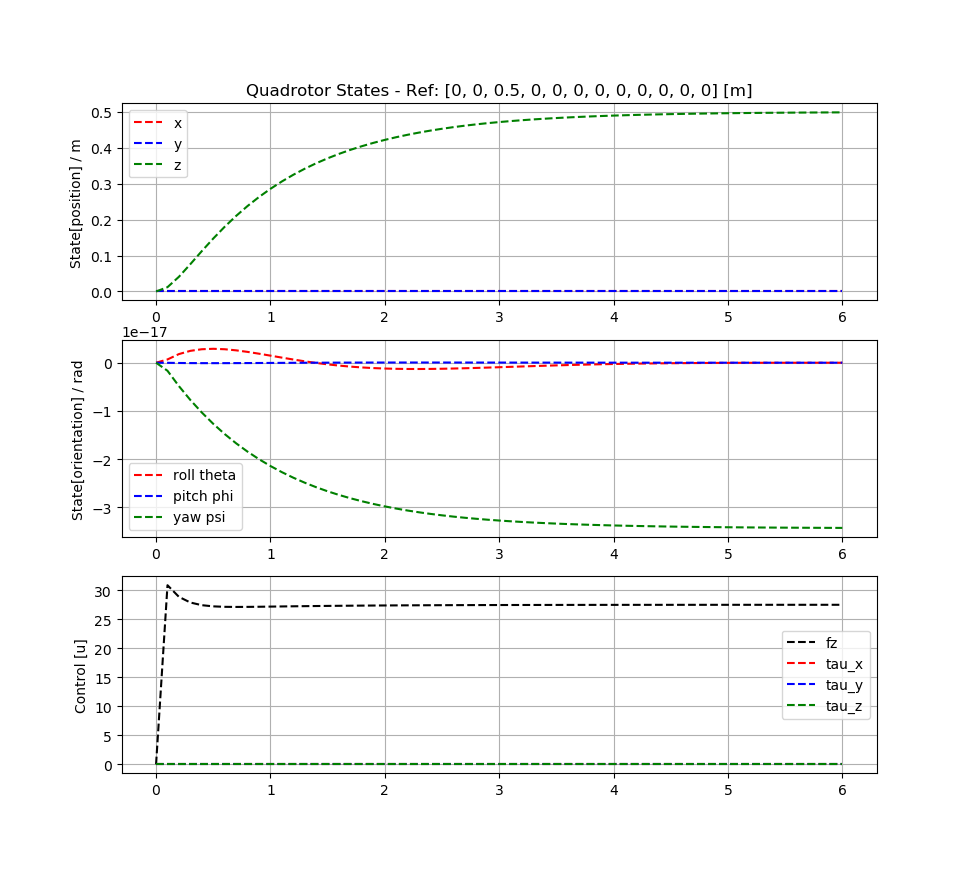
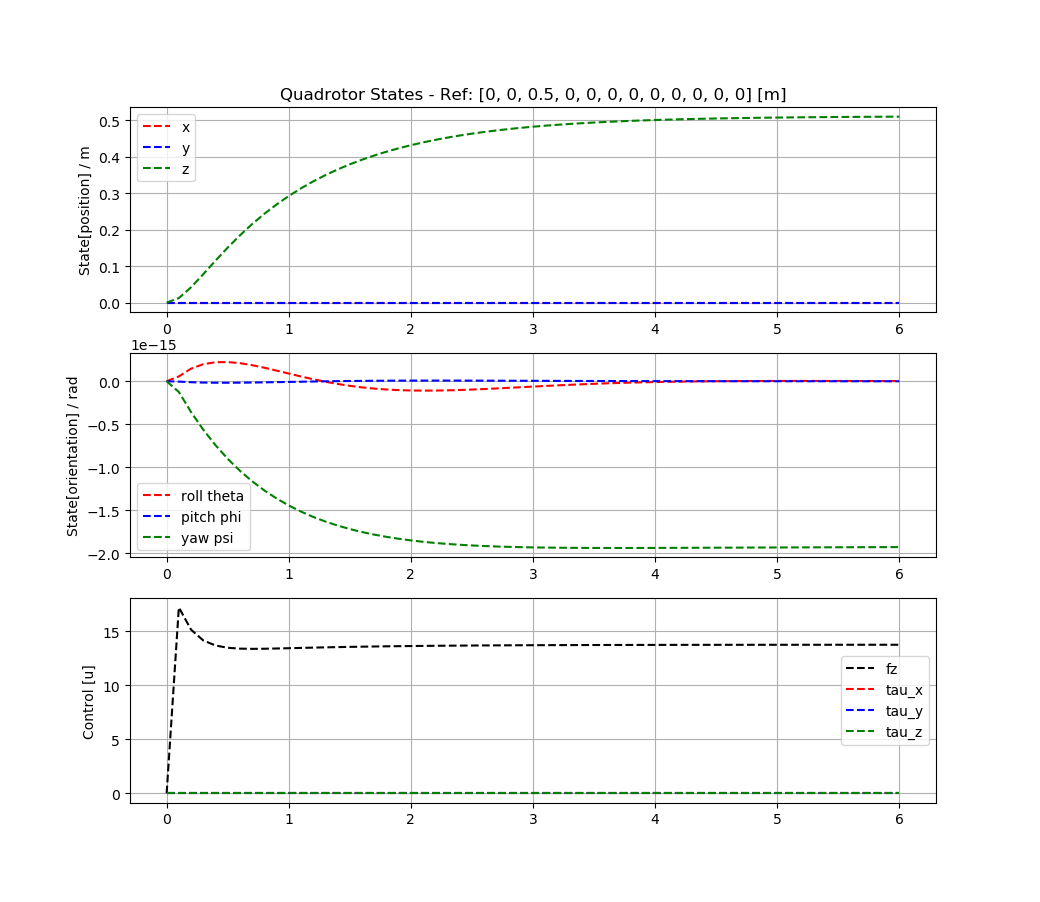
add nl figure.

diff --git a/simulation.py b/simulation.py
@@ -100,7 +100,8 @@ class EmbeddedSimEnvironment(object):
             # Store data
             t = np.append(t,t[-1]+self.dt)
             y_vec = np.append(y_vec, np.array(x_next), axis=1)
-            u_temp = [u[0]+self.model.m*self.model.g,u[1],u[2],u[3]]
+            # u_temp = [u[0]+self.model.m*self.model.g,u[1],u[2],u[3]]    # linear
+            u_temp = [u[0],u[1],u[2],u[3]]                              # non-linear
             u_vec = np.append(u_vec, np.array([u_temp]).T, axis=1)
 
             # Get plot window values:
